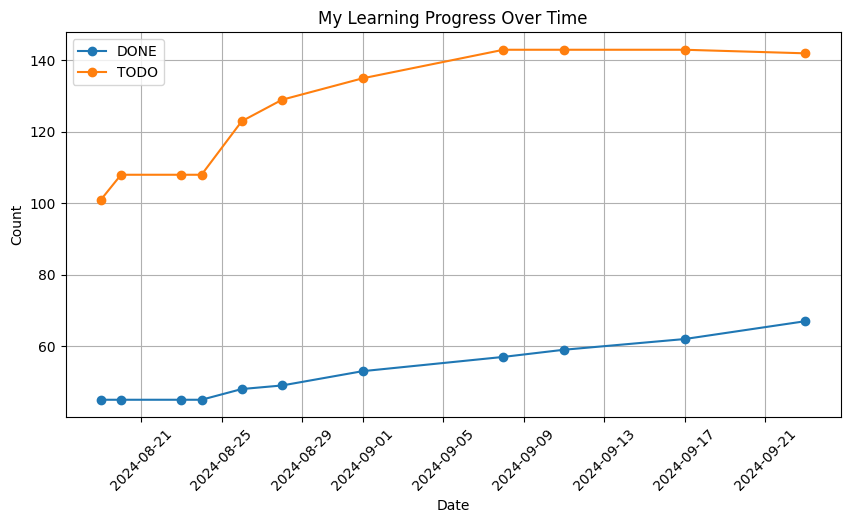
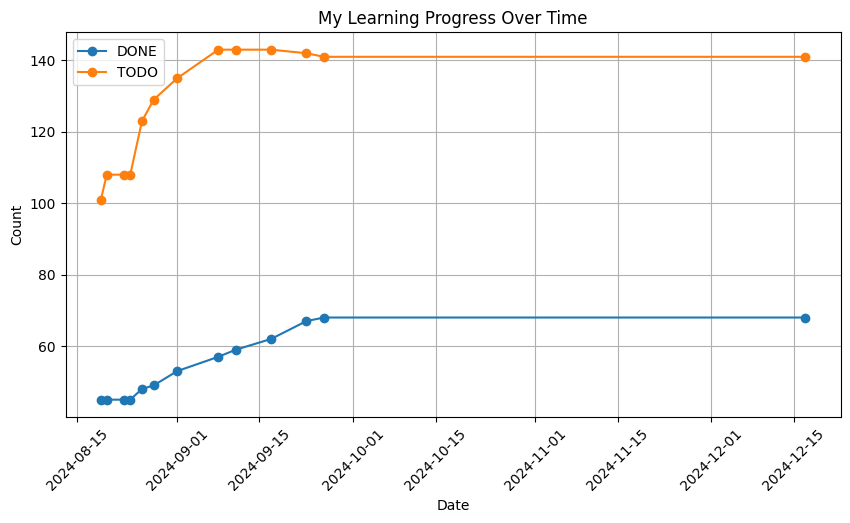
Add comments to scripts

diff --git a/scripts/mermaid_pie_chart_generation.py b/scripts/mermaid_pie_chart_generation.py
@@ -2,6 +2,14 @@ import re
 from collections import Counter
 from datetime import datetime
 
+'''
+This script reads the content of the INPUT_FILE file and counts the tags (TODO, IN_PROGRESS, DONE) from it.
+Then, it generates a pie chart using Mermaid syntax and appends it to the OUTPUT_FILE file.
+'''
+
+INPUT_FILE = "../LINKS.md"
+OUTPUT_FILE = "../PROGRESS.md"
+
 
 def parse_md_file(md_content, tag_pattern):
     """Parse the markdown content and count the tags."""
@@ -61,7 +69,7 @@ def update_debug_file(md_content):
     else:
         tag_pattern = re.compile(r"\[([\S_]*)\]")
     tag_counts = parse_md_file(md_content, tag_pattern)
-    dump_chart_to_file(tag_counts, "PROGRESS.md")
+    dump_chart_to_file(tag_counts, OUTPUT_FILE)
 
 
 # MAIN
@@ -70,7 +78,7 @@ def update_debug_file(md_content):
 
 def main():
     # read md_content from file `LINKS.md`
-    with open("LINKS.md", "r", encoding="utf8") as file:
+    with open(INPUT_FILE, "r", encoding="utf8") as file:
         md_content = file.read()
 
     update_debug_file(md_content)

diff --git a/scripts/parse_progress_md_to_png_plot.py b/scripts/parse_progress_md_to_png_plot.py
@@ -2,10 +2,19 @@ import matplotlib.pyplot as plt
 import re
 from datetime import datetime
 
+'''
+This script reads the content of the INPUT_FILE file and generates a plot showing the progress over time.
+'''
+
+INPUT_FILE = "../PROGRESS.md"
+OUTPUT_FILE = "../PROGRESS_OVER_TIME.png"
+
 def main():
 
+    print(f"WARNING: don't forget to update the {INPUT_FILE} file before running this script.")
+
     # Reading the content of the file
-    with open("../PROGRESS.md", "r") as file:
+    with open(INPUT_FILE, "r") as file:
         data = file.read()
 
     # Extracting dates, DONE and TODO values from the file
@@ -30,7 +39,8 @@ def main():
     plt.grid()
 
     # Saving the plot
-    plt.savefig("PROGRESS_OVER_TIME.png", bbox_inches="tight")
+    plt.savefig(OUTPUT_FILE, bbox_inches="tight")
+    print(f"Plot saved as {OUTPUT_FILE}")
 
 
 if __name__ == "__main__":

diff --git a/PROGRESS.md b/PROGRESS.md
@@ -103,3 +103,11 @@ pie
   "DONE" : 68
   "TODO" : 141
 ```
+
+### 2024-12-17
+
+```mermaid
+pie
+  "DONE" : 68
+  "TODO" : 141
+```
